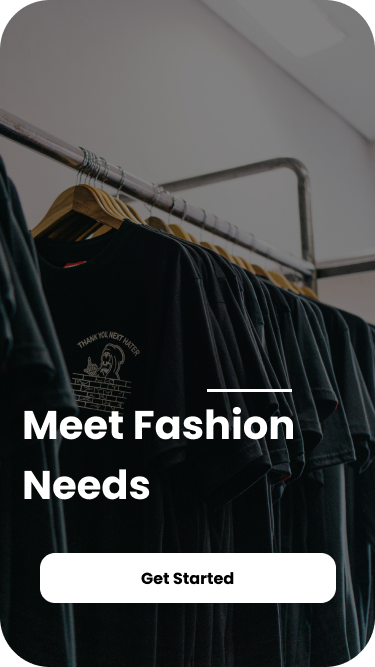
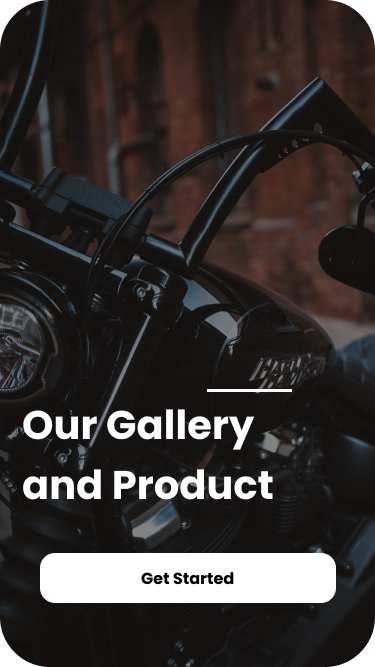
[FIX] fix all features

diff --git a/public/css/about/style.css b/public/css/about/style.css
@@ -18,3 +18,14 @@ body{
     -moz-background-size: cover;
     background-size: cover;
 }
+
+.related-img{
+    width: 30%;
+    height: 100%;
+    object-fit: cover;
+}
+
+.related-img:hover{
+    transform: scale(1.1);
+    transition: all 0.5s ease-in-out;
+}

diff --git a/resources/views/home.blade.php b/resources/views/home.blade.php
@@ -2,7 +2,7 @@
 
 @section('content')
 <!-- banner -->
-<div class="jumbotron jumbotron-fluid" id="banner" style="background-image: url(img/banner-bk.jpg);">
+<div class="jumbotron jumbotron-fluid" id="banner" style="background-image: url(img/banner-bk.png);">
     <div class="container text-center text-md-left">
         <header>
             <div class="row justify-content-between">
@@ -23,13 +23,13 @@
         </header>
         <h1 data-aos="fade" data-aos-easing="linear" data-aos-duration="1000" data-aos-once="true"
             class="display-3 text-white font-weight-bold my-5">
-            Distortion Store<br>
+            Motorhead Club<br>
             Web App
         </h1>
         <p data-aos="fade" data-aos-easing="linear" data-aos-duration="1000" data-aos-once="true"
             class="lead text-white my-4">
-            Web Application that facilitates the purchase of clothes <br>
-            featuring many of the products sold at Distortion Stores in Malang
+            Web application that displays information from documentation from Motörhead Club <br>
+            which also facilitates product sales in the form of motor spareparts.
         </p>
         <a href="/products" data-aos="fade" data-aos-easing="linear" data-aos-duration="1000" data-aos-once="true"
             class="btn my-4 font-weight-bold atlas-cta cta-green">Shop</a>
@@ -42,20 +42,20 @@
         <div data-aos="fade-up" data-aos-delay="0" data-aos-duration="1000" data-aos-once="true"
             class="col-md-4 text-center">
             <img src="img/smart-protect-1.png" alt="Anti-spam" class="mx-auto">
-            <h4>effectiveness</h4>
-            <p>Provide effectiveness for the purchase of our products.</p>
+            <h4>Community</h4>
+            <p>Several partners who work together in your community.</p>
         </div>
         <div data-aos="fade-up" data-aos-delay="200" data-aos-duration="1000" data-aos-once="true"
             class="col-md-4 text-center">
             <img src="img/smart-protect-2.png" alt="Phishing Detect" class="mx-auto">
-            <h4>Accurate</h4>
-            <p>Order data is never wrong and the product must reach the buyer's hands</p>
+            <h4>Solidarity</h4>
+            <p>Family solidarity establishes good relations with others.</p>
         </div>
         <div data-aos="fade-up" data-aos-delay="400" data-aos-duration="1000" data-aos-once="true"
             class="col-md-4 text-center">
             <img src="img/smart-protect-3.png" alt="Smart Scan" class="mx-auto">
-            <h4>Safety</h4>
-            <p>Good packing for every product purchase</p>
+            <h4>Easiness</h4>
+            <p>Convenience in finding motor spare parts.</p>
         </div>
     </div>
 </div>
@@ -65,8 +65,7 @@
         <div class="row justify-content-between text-center text-md-left">
             <div data-aos="fade-right" data-aos-duration="1000" data-aos-once="true" class="col-md-6">
                 <h2 class="font-weight-bold">Available on Mobile App </h2>
-                <p class="my-4">Distortion mobile app available on playstore, Download now and experience the ease of
-                    shopping.</p>
+                <p class="my-4">Motorhead mobile app available on playstore, Download now to see documentation from motohead club.</p>
                 <a href="/about" class="btn my-4 font-weight-bold atlas-cta cta-blue">Download</a>
             </div>
             <div data-aos="fade-left" data-aos-duration="1000" data-aos-once="true" class="col-md-6 align-self-center">
@@ -75,6 +74,23 @@
         </div>
     </div>
 </div>
+
+<div class="jumbotron jumbotron-fluid">
+        <div class="container">
+            <h3 class="font-weight-bold">Our client : </h3>
+            <div class="row">
+                <div class="col-sm-4 col-md-2 py-2 align-self-center">
+                    <img src="img/client/client1.png" class="mx-auto d-block">
+                </div>
+                <div class="col-sm-4 col-md-2 py-2 align-self-center">
+                    <img src="img/client/client2.png" class="mx-auto d-block">
+                </div>
+                <div class="col-sm-4 col-md-2 py-2 align-self-center">
+                    <img src="img/client/client3.png" class="mx-auto d-block">
+                </div>
+            </div>
+        </div>
+    </div>
 
 <div class="jumbotron jumbotron-fluid" id="contact" style="background-image: url(img/contact-bk1.png);">
     <div class="container my-5">
@@ -86,7 +102,7 @@
                     <br> You can order the product after the feature is available.
                 </p>
                 <ul class="list-unstyled">
-                    <li>Email : distortionstore@com</li>
+                    <li>Email : motorheadclub@gmai.com</li>
                     <li>Phone : +62 822-4509-4594</li>
                     <li>Address : Griyashanta K-407, Jl. Soekarno - Hatta, Mojolangu, Kec. Lowokwaru, Jawa Timur, 65142
                     </li>

diff --git a/resources/views/about.blade.php b/resources/views/about.blade.php
@@ -11,12 +11,12 @@
         integrity="sha384-ggOyR0iXCbMQv3Xipma34MD+dH/1fQ784/j6cY/iJTQUOhcWr7x9JvoRxT2MZw1T" crossorigin="anonymous">
     <link rel="stylesheet" href="/css/about/style.css">
 
-    <title>Distortion | About</title>
+    <title>Motorhead | About</title>
 </head>
 
 <body>
     <nav class="navbar navbar-expand-lg navbar-light bg-light">
-        <a class="navbar-brand" href="">Distortion</a>
+        <a class="navbar-brand" href="">Motorhead</a>
         <button class="navbar-toggler" type="button" data-toggle="collapse" data-target="#navbarNav"
             aria-controls="navbarNav" aria-expanded="false" aria-label="Toggle navigation">
             <span class="navbar-toggler-icon"></span>
@@ -72,18 +72,50 @@
         <div class="container my-5">
             <div class="row justify-content-between text-center text-md-left">
                 <div data-aos="fade-right" data-aos-duration="1000" data-aos-once="true" class="col-md-6">
-                    <h2 class="font-weight-bold">Now You Cand Find on <br>PlayStore</h2>
-                    <p class="my-4">You can find this app on your Playstroe, click on download button. and in this
-                        application many products are available in stores that can be purchased online.</p>
-                    <a href="#" class="btn my-4 font-weight-bold atlas-cta cta-blue">Download</a>
+                    <h2 class="font-weight-bold">Introduction </h2>
+                    <p class="my-4">Motorhead Club is a motorcycle community in Malang, and this Motorhead
+                        already has many partners and clients. and this web application is used to introduce motorheads
+                        in the city of Malang </p>
+                </div>
+                <div data-aos="fade-right" data-aos-duration="1000" data-aos-once="true" class="col-md-6">
+                    <h2 class="font-weight-bold">Vision and Mission </h2>
+                    <p class="my-4"><b>Vision :</b> Become the largest motorbike community in Malang city and even in
+                        Indonesia, and this community can provide benefits to other people.</p>
+                    <p class="my-4"><b>Mission :</b> From the results of our community, we can offer donations from the
+                        events we hold.</p>
+                </div>
+            </div>
+            <div class="row justify-content-between text-center text-md-left">
+                <div data-aos="fade-right" data-aos-duration="1000" data-aos-once="true" class="col-md-6">
+                    <p>
+                        our Galleries <br>
+                    </p>
+                    <img class="related-img" src="/img/gallery/gallery-1.jpg" alt="related-1">
+                    <img class="related-img" src="/img/gallery/gallery-2.jpg" alt="related-1">
+                    <img class="related-img" src="/img/gallery/gallery-3.jpg" alt="related-1"><br>
+                </div>
+            </div>
+        </div>
+        <br>
+        <div class="container my-5">
+            <div class="row justify-content-between text-center text-md-left">
+                <div data-aos="fade-right" data-aos-duration="1000" data-aos-once="true" class="col-md-6">
+                    <h2 class="font-weight-bold">Get easiser with Motorhead<br> Mobile App</h2>
+                    <p class="my-4">Now the motorhead club app can be used on the playstore, 
+                        what is the design of the application? see further to visit the article.</p>
+                    <a href="#" >See More</a>
                 </div>
                 <div data-aos="fade-left" data-aos-duration="1000" data-aos-once="true"
                     class="col-md-6 align-self-center">
-                    <img src="img/about-1.png" alt="Take a look inside" class="mx-auto d-block">
+                    <img src="img/feature-2.png" alt="Take a look inside" class="mx-auto d-block">
                 </div>
             </div>
         </div>
     </div>
+    
+        
+   
+
     <script src="https://code.jquery.com/jquery-3.3.1.slim.min.js"
         integrity="sha384-q8i/X+965DzO0rT7abK41JStQIAqVgRVzpbzo5smXKp4YfRvH+8abtTE1Pi6jizo" crossorigin="anonymous">
     </script>

diff --git a/resources/views/product.blade.php b/resources/views/product.blade.php
@@ -10,12 +10,12 @@
     <link rel="stylesheet" href="https://cdn.jsdelivr.net/npm/bootstrap@4.1.3/dist/css/bootstrap.min.css"
         integrity="sha384-MCw98/SFnGE8fJT3GXwEOngsV7Zt27NXFoaoApmYm81iuXoPkFOJwJ8ERdknLPMO" crossorigin="anonymous">
     <link rel="stylesheet" href="/css/product/style.css">
-    <title>Distortion | {{ $title }}</title>
+    <title>Motorhead | {{ $title }}</title>
 </head>
 
 <body>
     <nav class="navbar navbar-expand-lg navbar-light bg-light">
-        <a class="navbar-brand" href="">Distortion</a>
+        <a class="navbar-brand" href="">Motorhead</a>
         <button class="navbar-toggler" type="button" data-toggle="collapse" data-target="#navbarNav"
             aria-controls="navbarNav" aria-expanded="false" aria-label="Toggle navigation">
             <span class="navbar-toggler-icon"></span>
@@ -61,13 +61,6 @@
                     <article class="my-2 fs-5">
                         {!! $product->description !!}
                     </article>
-                    <p>
-                        Related images : <br>
-                    </p>
-                    <img class="related-img" src="/img/product/bahan1.jpg" alt="related-1">
-                    <img class="related-img" src="/img/product/bahan2.jpg" alt="related-1">
-                    <img class="related-img" src="/img/product/bahan3.jpg" alt="related-1"><br>
-                    <a href="/products" class="btn btn-primary mt-2">Back</a>
                 </div>
             </div>
         </div>

diff --git a/resources/views/products.blade.php b/resources/views/products.blade.php
@@ -12,12 +12,12 @@
         <link rel="stylesheet" href="https://cdn.jsdelivr.net/npm/bootstrap@4.1.3/dist/css/bootstrap.min.css"
             integrity="sha384-MCw98/SFnGE8fJT3GXwEOngsV7Zt27NXFoaoApmYm81iuXoPkFOJwJ8ERdknLPMO" crossorigin="anonymous">
         <link rel="stylesheet" href="/css/product/style.css">
-        <title>Distortion | {{ $title }}</title>
+        <title>Motorhead | {{ $title }}</title>
     </head>
 
 <body>
     <nav class="navbar navbar-expand-lg navbar-light bg-light">
-        <a class="navbar-brand" href="">Distortion</a>
+        <a class="navbar-brand" href="">Motorhead</a>
         <button class="navbar-toggler" type="button" data-toggle="collapse" data-target="#navbarNav"
             aria-controls="navbarNav" aria-expanded="false" aria-label="Toggle navigation">
             <span class="navbar-toggler-icon"></span>

diff --git a/resources/views/layouts/app.blade.php b/resources/views/layouts/app.blade.php
@@ -4,7 +4,7 @@
 <head>
     <meta charset="UTF-8">
     <meta name="viewport" content="width=device-width, initial-scale=1, shrink-to-fit=no">
-    <title>Distortiron | {{ $title }}</title>
+    <title>Motorhead | {{ $title }}</title>
     <meta name="description" content="Free bootstrap template Atlas">
     <link rel="icon" href="img/favicon.png" sizes="32x32" type="image/png">
     <!-- custom.css -->
